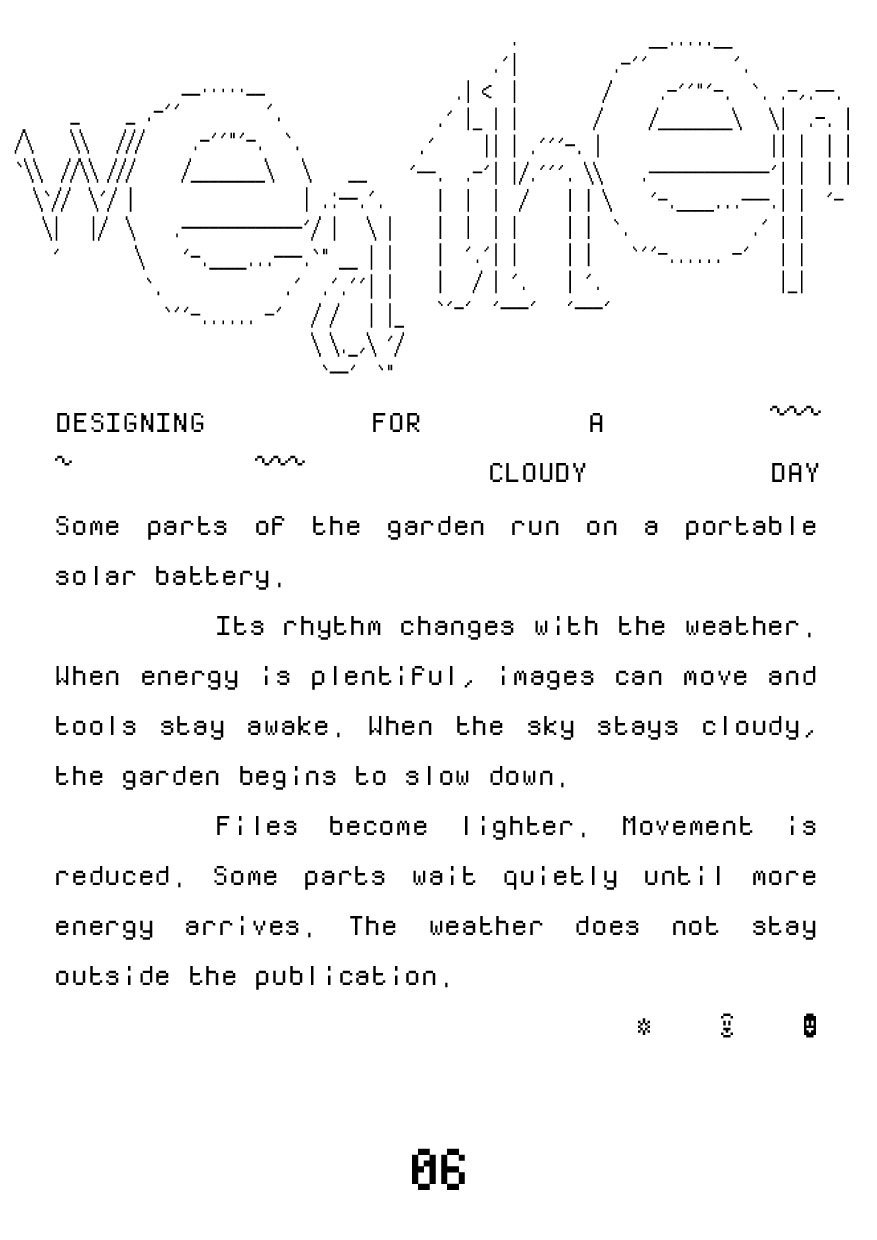
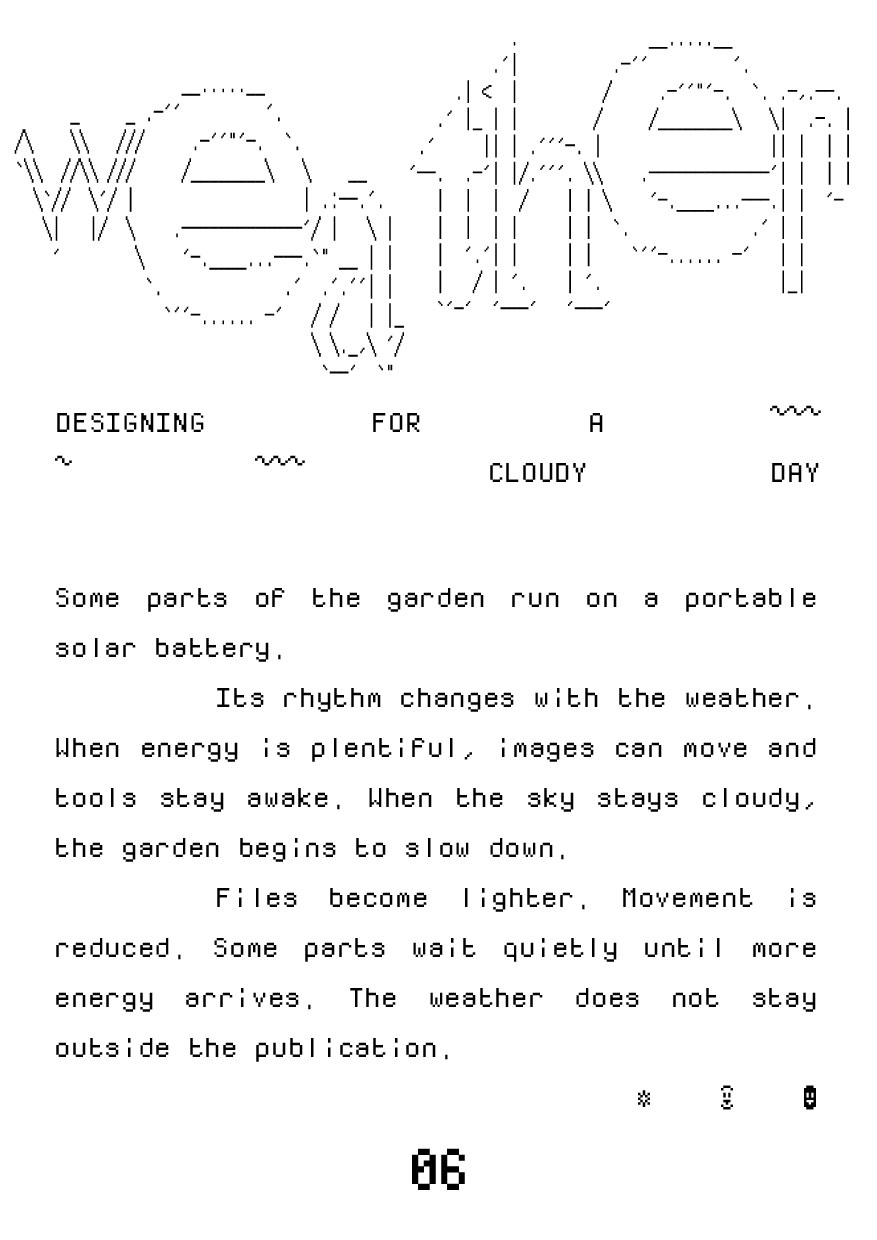
images upload

diff --git a/index.html b/index.html
@@ -271,7 +271,7 @@
           <li class="garden-status-row"><span class="garden-status-label">Images size:</span> <span id="res-images-weight">pending browser measurement</span></li>
           <li class="garden-status-row"><span class="garden-status-label">Mode:</span> <span id="site-mode">unknown</span></li>
           <li class="garden-status-row device-battery-row"><span class="garden-status-label">Device battery:</span> <span id="device-battery-status">unavailable</span></li>
-          <li class="garden-status-row"><span class="garden-status-label">Energy:</span> <span id="garden-energy-level" data-level="100">100%</span></li>
+          <li class="garden-status-row"><span class="garden-status-label">Energy:</span> <span id="garden-energy-level" data-level="80">80%</span></li>
           <li class="garden-status-row"><span class="garden-status-label">Observed:</span> <span id="observed-time">pending browser measurement</span></li>
         </ul>
       </div>
@@ -426,6 +426,12 @@
       <button type="button" class="map-content-dialog-close" aria-label="Close Permacomputing">[×]</button>
     </header>
     <div class="map-content-dialog-body permacomputing-dialog-body">
+      <figure class="permacomputing-figure">
+        <button type="button" class="image-reveal" aria-label="Reveal colour image" aria-pressed="false">
+          <img src="assets/image/Permacomputing＿01.webp" data-bw-src="assets/image/Permacomputing＿01.webp" data-color-src="assets/image/Permacomputing＿colour01.jpg" alt="Overhead view of a soil moisture sensor, microcontroller, small speaker, and solar panel wired together among potted plants.">
+        </button>
+        <figcaption>Repurposed tech monitoring soil conditions for house plants. Photo by Michal Klodner.</figcaption>
+      </figure>
       <div class="permacomputing-copy">
         <p>Permacomputing explores how computing can operate within ecological and material limits. It considers energy, hardware, software, labour, and maintenance as connected parts of a technical system.</p>
 
@@ -457,6 +463,12 @@
       <button type="button" class="map-content-dialog-close" aria-label="Close Permapublishing">[×]</button>
     </header>
     <div class="map-content-dialog-body permapublishing-dialog-body">
+      <figure class="permapublishing-figure">
+        <button type="button" class="image-reveal" aria-label="Reveal colour image" aria-pressed="false">
+          <img src="assets/image/ppp_01.webp" data-bw-src="assets/image/ppp_01.webp" data-color-src="assets/image/ppp_colour01.jpg" alt="Line drawing of a laptop, a printer, and an open book, each marked with a letter P and linked arm in arm.">
+        </button>
+        <figcaption> PrePostPrint wiki: https://wiki.prepostprint.org/</figcaption>
+      </figure>
       <div class="permapublishing-copy">
         <p>Permapublishing applies the principles of permacomputing to publishing. It considers not only the final publication, but also the tools, formats, workflows, and infrastructures involved in producing and distributing it.</p>
 
@@ -488,6 +500,12 @@
       <button type="button" class="map-content-dialog-close" aria-label="Close Community of Practice">[×]</button>
     </header>
     <div class="map-content-dialog-body community-dialog-body">
+      <figure class="community-figure">
+        <button type="button" class="image-reveal" aria-label="Reveal colour image" aria-pressed="false">
+          <img src="assets/image/community_01.webp" data-bw-src="assets/image/community_01.webp" data-color-src="assets/image/community_colour01.png" alt="Illustration of robed figures gathered around a shared device, connected by arrows radiating outward and inward.">
+        </button>
+        <figcaption>Brewing Permacomputing Collectives.</figcaption>
+      </figure>
       <div class="community-copy">
         <p>Computing practices grow through exchange, documentation, and shared experimentation. This page gathers projects, collectives, and communities that have informed This Garden, offering different approaches to low-resource computing, publishing, repair, reuse, and collective learning ♪♪♪ </p>
 
@@ -562,6 +580,12 @@
       <button type="button" class="map-content-dialog-close" aria-label="Close Screen Materiality">[×]</button>
     </header>
     <div class="map-content-dialog-body screen-materiality-dialog-body">
+      <figure class="screen-materiality-figure">
+        <button type="button" class="image-reveal" aria-label="Reveal colour image" aria-pressed="false">
+          <img src="assets/image/screen_01.webp" data-bw-src="assets/image/screen_01.webp" data-color-src="assets/image/screen_colour01.png" alt="Photograph of a screen showing heavy scan-line noise and ghosting artefacts.">
+        </button>
+        <figcaption>Scan lines and ghosting on a photographed screen.</figcaption>
+      </figure>
       <div class="screen-materiality-copy">
         <p>Screens are not neutral surfaces. Each display is shaped by its own pixel structure, colour range, resolution, refresh behaviour, brightness, and response time. These technical properties influence how images appear, move, fade, and remain visible.</p>
 

diff --git a/assets/css/garden.css b/assets/css/garden.css
@@ -2665,6 +2665,70 @@ html.dialog-open body {
   margin-inline: auto;
 }
 
+/* Same sizing/caption treatment as .energy-figure -- no standalone
+   page counterpart to share with here, so it's dialog-only. */
+.permacomputing-figure {
+  margin: 0 0 1.5rem;
+  width: 28rem;
+  max-width: 100%;
+  margin-inline: auto;
+}
+
+.permacomputing-figure figcaption {
+  margin-top: 0.4rem;
+  font-size: 0.85rem;
+  font-style: normal;
+  color: var(--muted);
+}
+
+/* Same sizing/caption treatment as .permacomputing-figure -- no
+   standalone page counterpart here either. */
+.permapublishing-figure {
+  margin: 0 0 1.5rem;
+  width: 28rem;
+  max-width: 100%;
+  margin-inline: auto;
+}
+
+.permapublishing-figure figcaption {
+  margin-top: 0.4rem;
+  font-size: 0.85rem;
+  font-style: normal;
+  color: var(--muted);
+}
+
+/* Same sizing/caption treatment as .permacomputing-figure -- no
+   standalone page counterpart here either. */
+.community-figure {
+  margin: 0 0 1.5rem;
+  width: 28rem;
+  max-width: 100%;
+  margin-inline: auto;
+}
+
+.community-figure figcaption {
+  margin-top: 0.4rem;
+  font-size: 0.85rem;
+  font-style: normal;
+  color: var(--muted);
+}
+
+/* Same sizing/caption treatment as .permacomputing-figure -- no
+   standalone page counterpart here either. */
+.screen-materiality-figure {
+  margin: 0 0 1.5rem;
+  width: 28rem;
+  max-width: 100%;
+  margin-inline: auto;
+}
+
+.screen-materiality-figure figcaption {
+  margin-top: 0.4rem;
+  font-size: 0.85rem;
+  font-style: normal;
+  color: var(--muted);
+}
+
 .energy-heading {
   margin: 1.5rem 0 0.75rem;
   font-size: 0.95rem;
